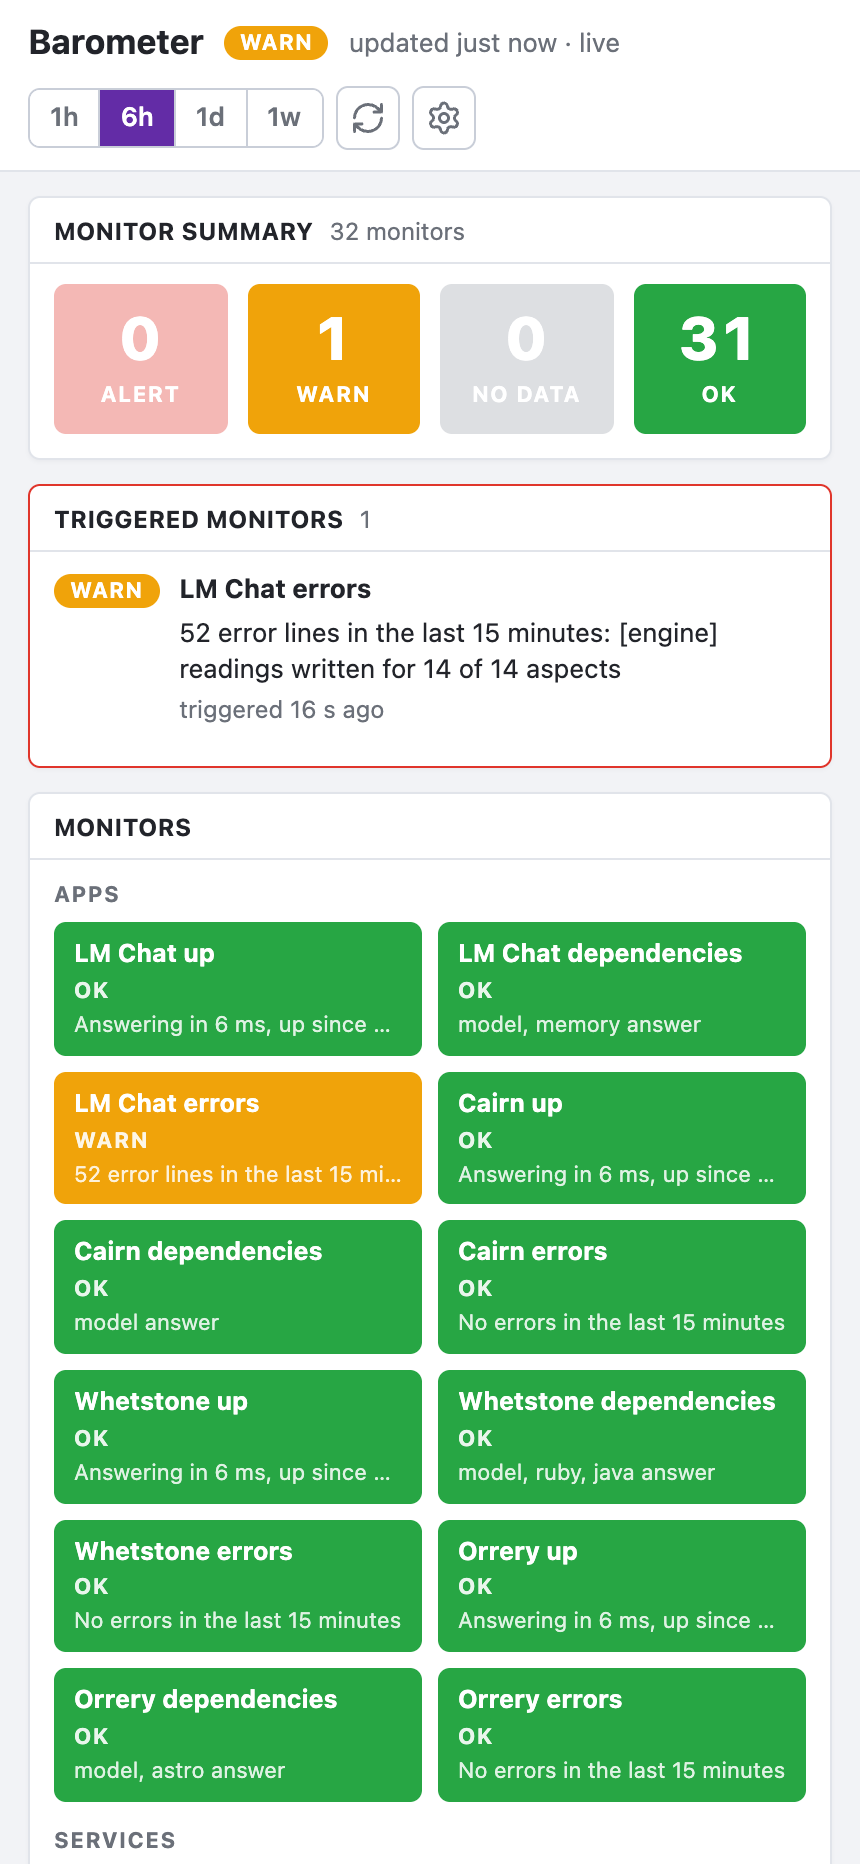
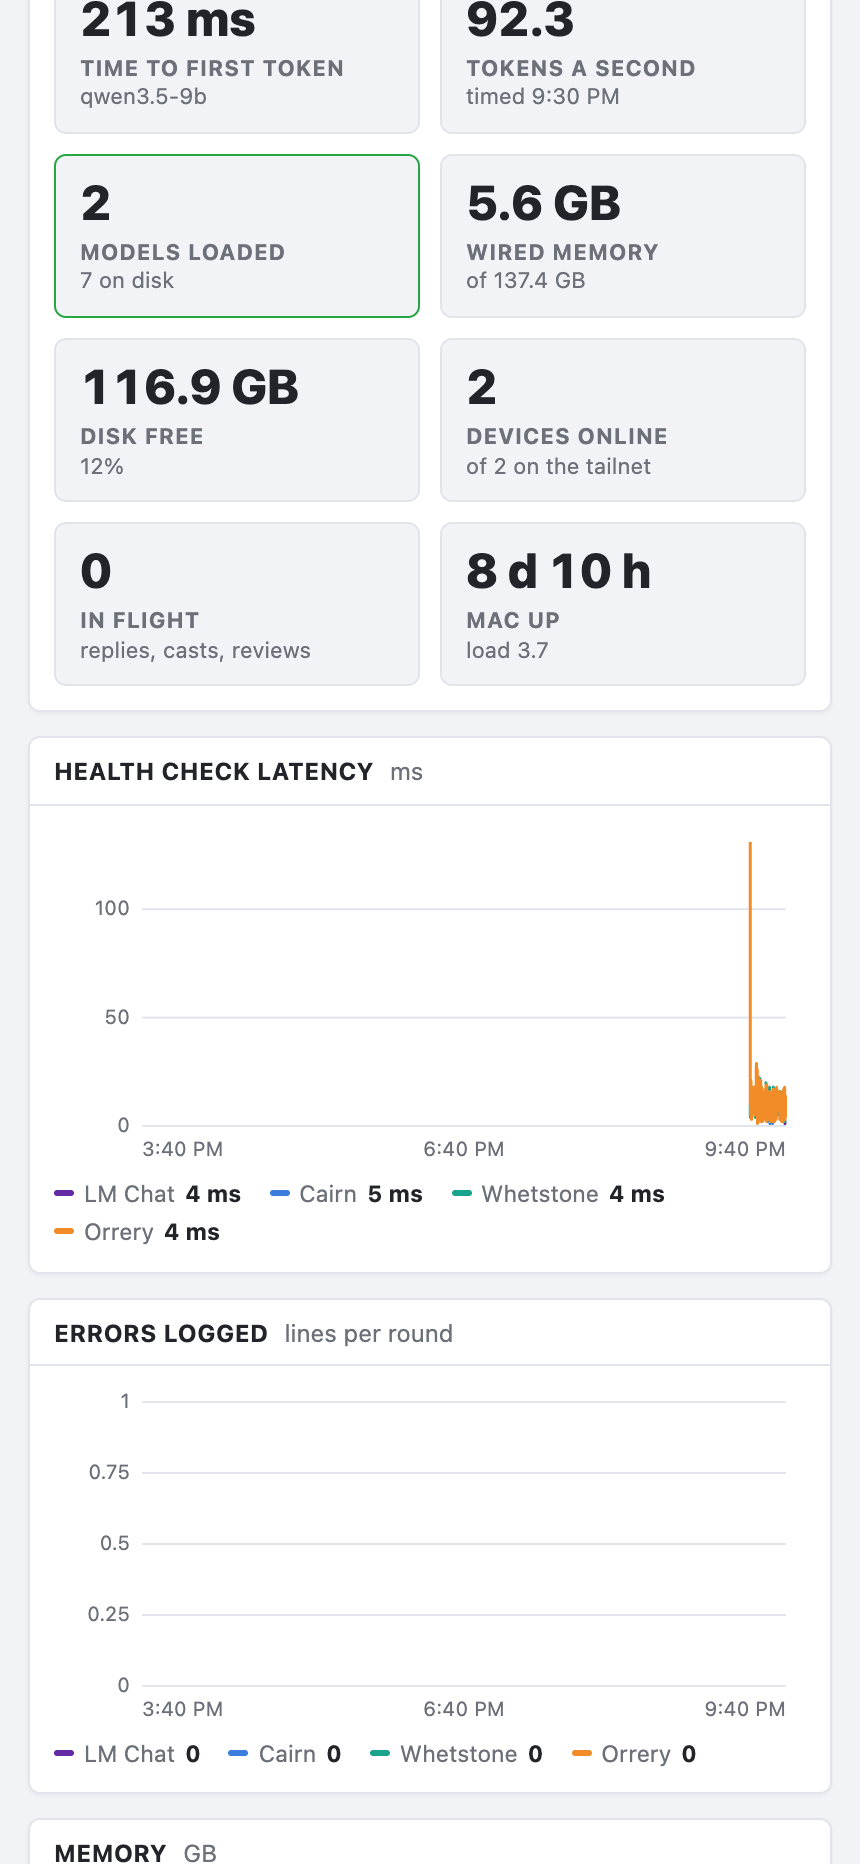
docs: the dashboard in the README; axis headroom; readable backup time

diff --git a/server/monitors.ts b/server/monitors.ts
@@ -78,7 +78,7 @@ export function monitors(s: Snapshot, settings: ServerSettings, downTicks: Recor
   }
   const log = s.data.backupLog
   add('backup-job', 'Backup job', 'data', 'backups', log.state === 'warn' ? 'warn' : log.state === 'ok' ? 'ok' : 'nodata',
-    log.state === 'warn' ? `Last night's backup finished with ${log.failures} failure${log.failures === 1 ? '' : 's'}; see ~/Library/Logs/backup-data.log` : log.state === 'ok' ? `Last ran ${log.lastRun}` : 'No run seen yet')
+    log.state === 'warn' ? `Last night's backup finished with ${log.failures} failure${log.failures === 1 ? '' : 's'}; see ~/Library/Logs/backup-data.log` : log.state === 'ok' ? `Last ran ${log.lastRun ? new Date(log.lastRun).toLocaleString([], { month: 'short', day: 'numeric', hour: 'numeric', minute: '2-digit' }) : 'at a time not known'}` : 'No run seen yet')
 
   return out
 }

diff --git a/src/components/TimeSeries.tsx b/src/components/TimeSeries.tsx
@@ -35,6 +35,8 @@ function ticks(lo: number, hi: number, n = 4): number[] {
   const step = [1, 2, 2.5, 5, 10].map((m) => m * mag).find((s) => s >= raw) ?? raw
   const out: number[] = []
   for (let v = Math.ceil(lo / step) * step; v <= hi + 1e-9; v += step) out.push(Math.round(v * 1e6) / 1e6)
+  // One more above the highest value, so a line never runs along the top edge.
+  if ((out.at(-1) ?? lo) < hi) out.push(Math.round((out.at(-1)! + step) * 1e6) / 1e6)
   return out
 }
 

diff --git a/README.md b/README.md
@@ -1,56 +1,61 @@
 # <img src="public/icon-180.png" width="32" alt=""> Barometer
 
-What is running on the Mac, on one page: the four apps and the services
-beside them, the model server and how fast it is answering, the machine
-itself, and whether last night's backups happened. It watches every fifteen
-seconds, keeps the numbers, and says so, on the Mac and on the phone, when
-something needs a look.
+A dashboard for what is running on the Mac: the four apps and the services
+beside them, the model server and how fast it answers, the machine itself,
+the databases and their backups. Every fifteen seconds it looks at all of
+it, judges thirty-odd monitors, keeps the numbers for the graphs, and says
+so, on the Mac and on the phone, when a monitor leaves OK.
+
+<img src="docs/screenshots/board-desktop.png" alt="The dashboard on a wide window: the monitor summary, the triggered monitors, every monitor as a tile, the numbers and the graphs" />
 
 <table>
   <tr>
-    <td width="50%"><img src="docs/screenshots/board-phone.png" alt="The board: what needs a look, the apps, the model" /></td>
-    <td width="50%"><img src="docs/screenshots/board-phone-more.png" alt="Further down: the Mac, the data, the timeline" /></td>
+    <td width="50%"><img src="docs/screenshots/board-phone.png" alt="On a phone: the summary and the monitors" /></td>
+    <td width="50%"><img src="docs/screenshots/board-phone-graphs.png" alt="On a phone: the graphs" /></td>
   </tr>
   <tr>
-    <td><b>The board.</b> Anything open at the top, then a row per app: its light, the commit deployed, how long its health route took, a sparkline of the last three hours, and what it depends on.</td>
-    <td><b>Further down.</b> The Mac's memory, disk, heat and Tailscale; each database with its counts and newest backup; and the timeline of restarts, deploys and alerts.</td>
+    <td><b>Monitors.</b> How many stand at alert, warn, no data and OK; the triggered ones with how long ago; then every monitor as a tile coloured by its status.</td>
+    <td><b>Graphs.</b> Health-check latency and error lines per app, memory, the model's time to first token and tokens a second, load and disk, over the last hour, six hours, day or week. Hover or touch reads the values at one moment.</td>
   </tr>
 </table>
 
-## What it watches
+Below the graphs: the numbers at a glance, a table of the services (commit
+deployed, uptime, what is in flight, dependencies, launchd start count,
+errors in the last quarter hour), a table of the databases, the event stream
+and the latest error lines from the apps' own logs.
 
-| Layer | What | How |
+## The monitors
+
+| Group | Monitor | Alert when |
 | --- | --- | --- |
-| Apps | LM Chat, Cairn, Whetstone, Orrery | Each app's `GET /api/health` (one shape in all four: ok, the commit deployed, uptime, what is in flight, whether its dependencies answer, its data file), timed; and `launchctl print` for the pid and how many times launchd has started it. |
-| Services | The speech server (Kokoro), oMLX | A request to each; oMLX also says what it has loaded. |
-| Model | LM Studio | Which models are loaded and with what context. Every ten minutes, when nothing else is being written, a short timed completion: time to first token and tokens a second. |
-| Mac | Memory pressure, wired and free memory, disk, load, thermal throttling, Tailscale, the default route | `sysctl`, `vm_stat`, `df`, `pmset -g therm`, `tailscale status --json`, `route`. |
-| Data | Each app's SQLite file and the memory file | Size, last write, a few row counts, SQLite's quick check every fifteen minutes, and the newest dated copy in `~/Backups`; plus the backup job's own log. |
-| Events | Restarts, deploys, stops | An app whose start time moved has restarted: a deploy when its commit changed, otherwise something to look at, with launchd's reason from `services-watch`'s log. |
+| Apps | *App* up | Its `GET /api/health` does not answer, two rounds running. |
+| | *App* dependencies | The health route says a dependency (the model server, astro-mcp, the memory file) is down. |
+| | *App* errors | Its launchd log gained more error lines in fifteen minutes than Settings allows. |
+| Services | Speech, oMLX up | No answer, two rounds running. |
+| Model | LM Studio up, Model loaded, Model speed | LM Studio does not answer; no model (or not the one Settings expects) is loaded; the timed completion is slower than the thresholds. |
+| Mac | Memory pressure, Disk space, CPU thermal, Tailscale | macOS reports pressure; the disk is nearly full; the CPU is throttled; Tailscale is stopped or the Mac is offline on the tailnet. |
+| Data | *Database* backup, *Database* integrity, Backup job | The newest dated copy in `~/Backups` is older than a day; SQLite's quick check fails; last night's backup job logged failures. |
 
-## Alerts
+Each app's `GET /api/health` has one shape: ok, the commit deployed, when it
+started, what is in flight, whether its dependencies answer, and its data
+file. A restart is told from a deploy by the commit: a new commit is a
+deploy, the same commit is something to look at, with launchd's reason
+pulled from the `services-watch` log.
 
-A rule opens an alert when it holds and closes it when it stops. Each is said
-once, as a macOS notification and as a push to every phone that asked for one:
-
-- an app or service not answering for two rounds running;
-- an app that cannot reach the model server, astro-mcp or its memory file;
-- LM Studio unreachable, or no model loaded (or not the one Settings expects);
-- the timed completion slower than the thresholds in Settings;
-- memory pressure high or critical, the disk nearly full, the CPU throttled;
-- Tailscale stopped, or the Mac offline on the tailnet;
-- a backup older than a day, or last night's backup job reporting failures;
-- a database failing its quick check.
+Every monitor is judged every round (`server/monitors.ts`); one that is
+warn or alert opens an alert, one back at OK closes it, and each change is
+said once as a macOS notification and as a push to every phone that asked.
 
 ## Running it
 
 Node 24 or newer. `npm install`, then:
 
-- `npm run dev` on :8500, against a scratch database in `.data-dev`; it watches
-  the same services but never times the model or notifies anyone.
+- `npm run dev` on :8500, against a scratch database in `.data-dev`; it
+  watches the same services but never times the model or notifies anyone.
 - `npm run preview` on :8510 is the real instance, kept up by launchd
   (`com.amie.barometer`) and served on the tailnet by `tailscale serve`.
 - `npm run deploy` rebuilds and restarts that instance.
+- `npm run screenshots` takes the pictures above from the running instance.
 
 Settings on the page hold the LM Studio URL and token, how often to time the
 model, the thresholds, and whether to notify the Mac. Push to a phone needs
@@ -58,9 +63,10 @@ the app on the home screen; turn it on from Settings there.
 
 ## How it is built
 
-React 19, TypeScript and Vite for the page; Node 24 with `node:sqlite` for the
-server, which runs inside Vite as a plugin (`server/api.ts`). One SQLite file
-holds raw samples for two days, five-minute rollups for ninety, the events,
-the alerts, the settings and the push subscriptions. The page keeps current
-over a server-sent stream and polls if that will not open. `npm run check`
-runs the typecheck, the lint and the tests.
+React 19, TypeScript and Vite for the page; Node 24 with `node:sqlite` for
+the server, which runs inside Vite as a plugin (`server/api.ts`). One
+SQLite file holds raw samples for two days, five-minute rollups for ninety,
+the events, the alerts, the settings and the push subscriptions. The page
+keeps current over a server-sent stream and polls if that will not open.
+The graphs are plain SVG. `npm run check` runs the typecheck, the lint and
+the tests.
